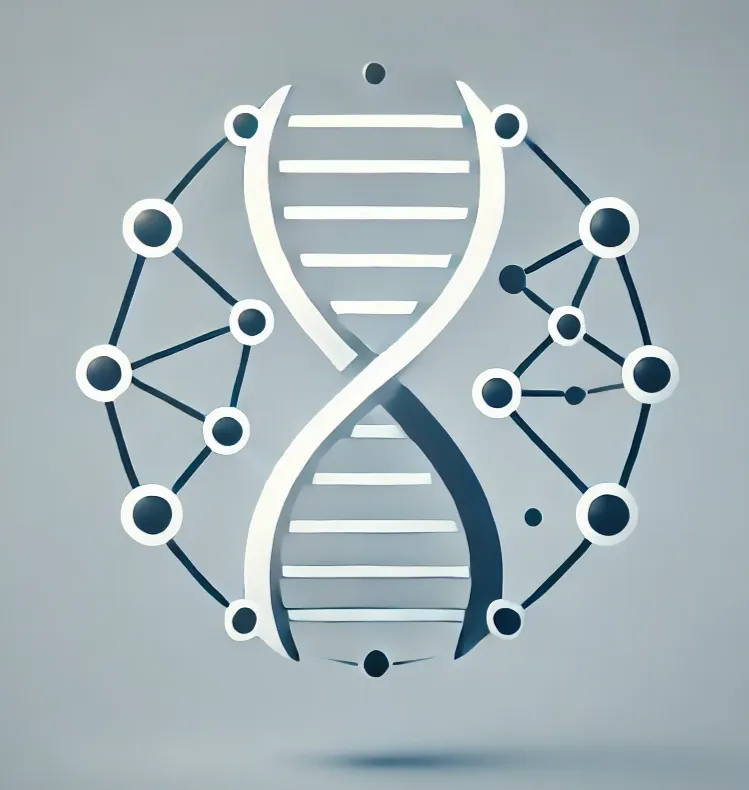
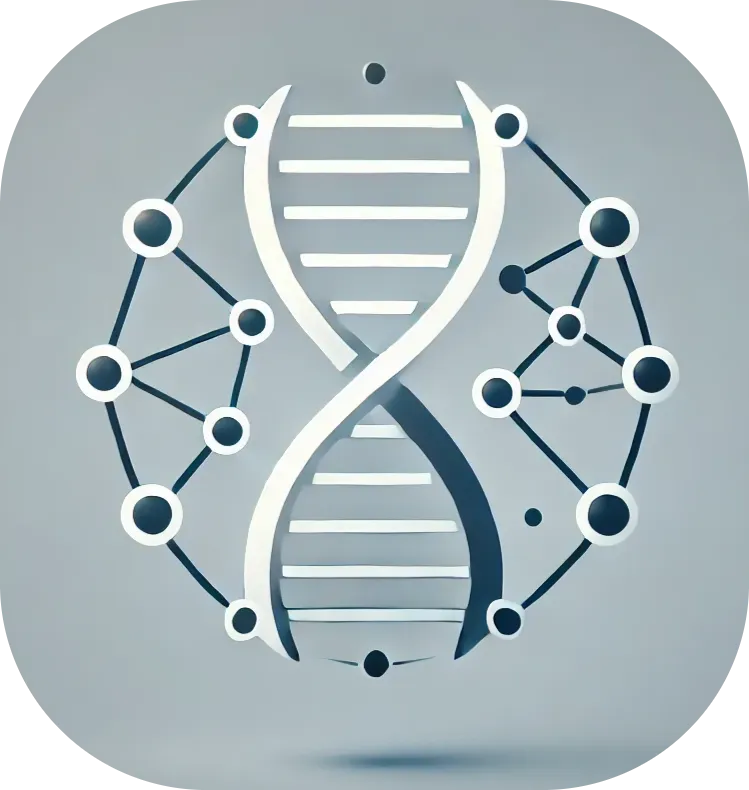
fix formatting and some images, still WIP

diff --git a/about.html b/about.html
@@ -10,14 +10,6 @@
     <link rel="icon" href="assets/documents/icon.webp" type="image/webp" class="rounded-favicon">
 
 </head>
-<style>
-  .rounded-favicon {
-    width: 32px; /* Favicon size */
-    height: 32px;
-    border-radius:25%; 
-    display: block;
-  }
-</style>
 <body>
 
     <section id="about">
@@ -221,6 +213,7 @@
       
 
     <section id="hobbyblogs">
+    
           <div class="masonry">
             <div class="item item1">
               <img src="assets/documents/image3.webp" alt="">
